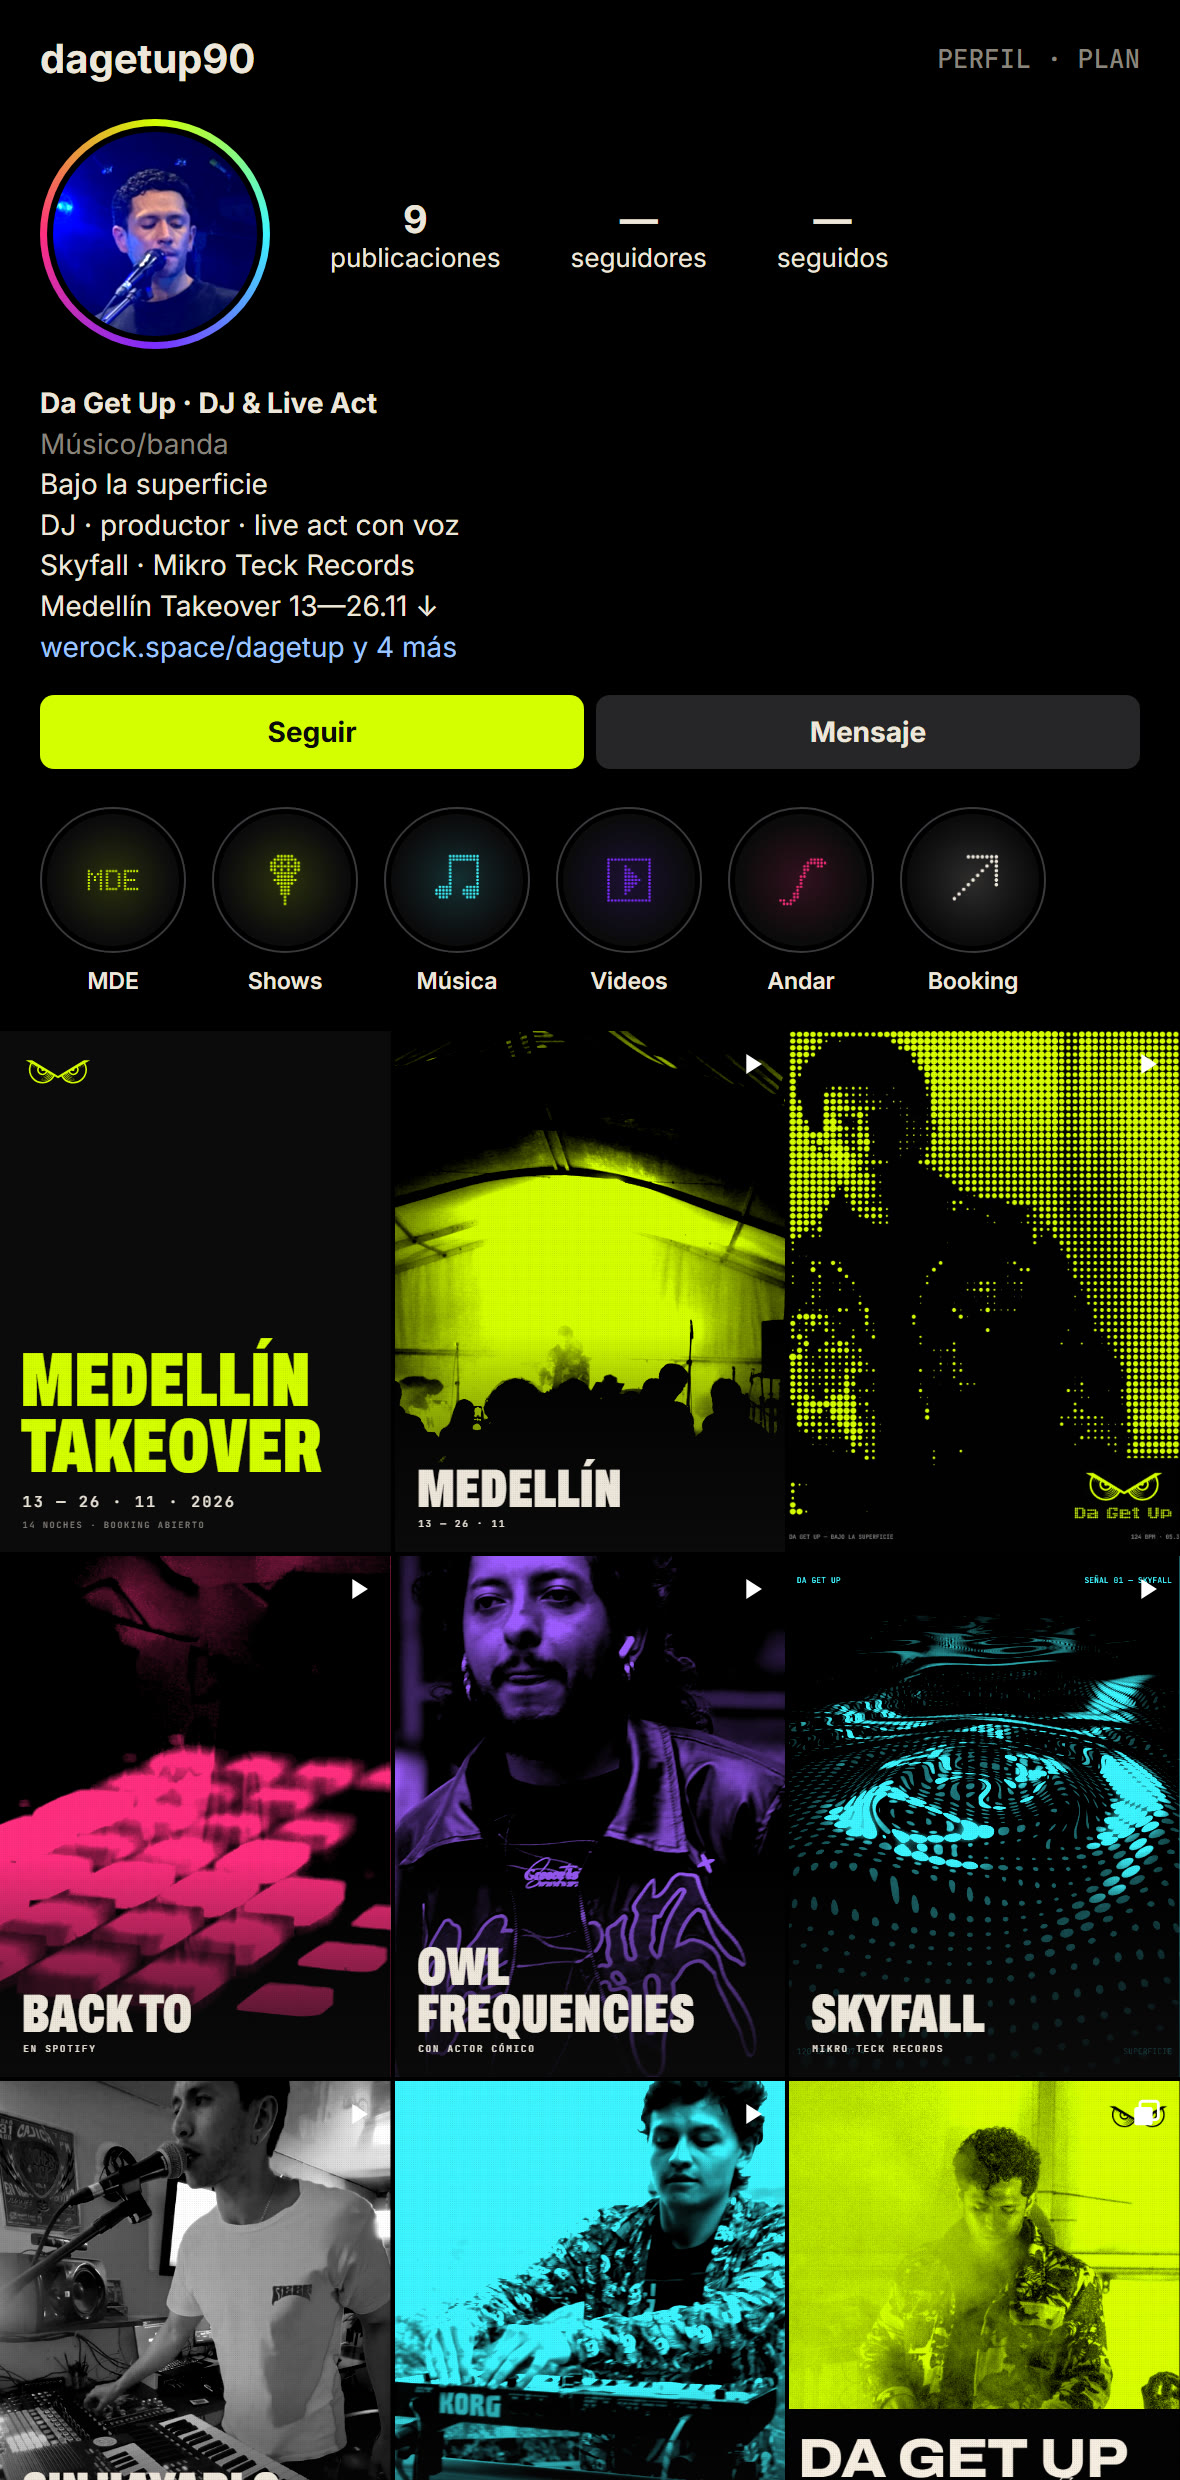
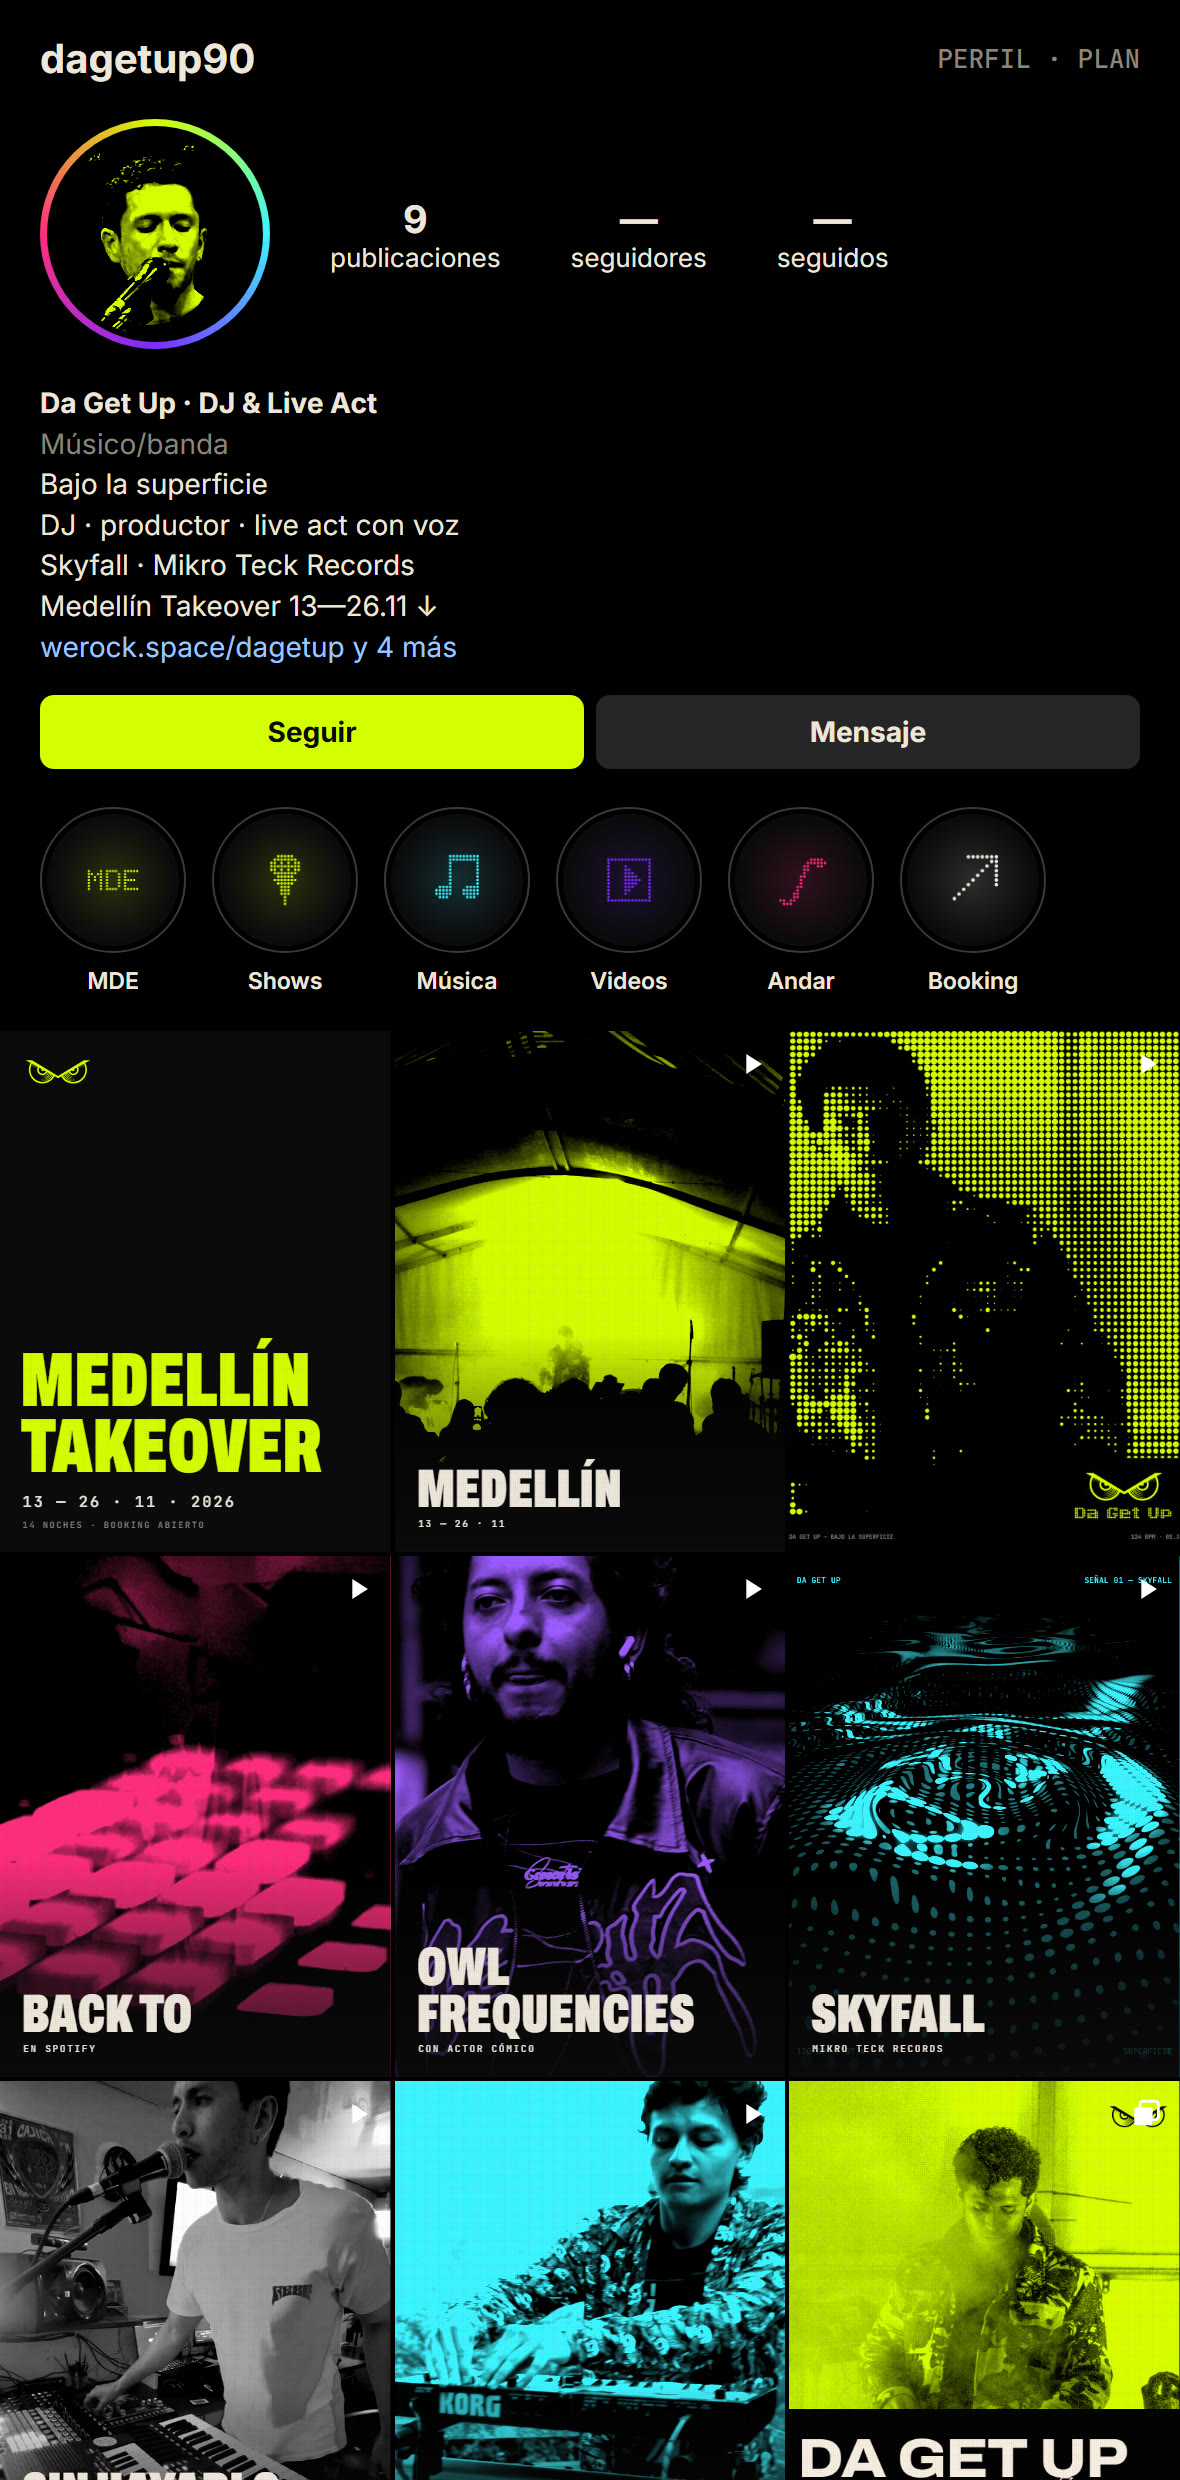
Foto de perfil: 8 variantes (cantando D1–D4, Takeover T1–T4), recomendada D2

Changed region(s): [[0.0305, 0.031, 0.2136, 0.1552]]

diff --git a/ig/index.html b/ig/index.html
@@ -79,7 +79,7 @@ summary{cursor:pointer;font-family:Archivo,sans-serif;font-stretch:62%;font-weig
       <h2>El perfil en un día</h2>
       <p class="how">Se usa @dagetup90 tal como está (69 seguidores). Primero se arregla el perfil, después se suben las 9 piezas en orden, de la 01 a la 09, con 2 o 3 minutos entre cada una. La última que subes queda arriba a la izquierda. Así se ve terminado:</p>
       <div style="display:grid;grid-template-columns:minmax(0,420px) 1fr;gap:28px;align-items:start" class="hoy-top">
-        <figure><img src="grid/perfil-mockup.jpg?v=2" alt="Así queda el perfil: foto, bio, destacadas y grid de 9" loading="lazy"><figcaption><span class="mono">Así queda</span><a class="dl" href="grid/perfil-mockup.jpg" download>Bajar</a></figcaption></figure>
+        <figure><img src="grid/perfil-mockup.jpg?v=5" alt="Así queda el perfil: foto, bio, destacadas y grid de 9" loading="lazy"><figcaption><span class="mono">Así queda</span><a class="dl" href="grid/perfil-mockup.jpg" download>Bajar</a></figcaption></figure>
         <div>
           <p class="mono" style="color:var(--acido);margin-bottom:10px">Paso 1 · Antes de publicar</p>
           <ul class="links">
@@ -87,7 +87,7 @@ summary{cursor:pointer;font-family:Archivo,sans-serif;font-stretch:62%;font-weig
             <li><b>Nombre</b><span>Da Get Up · DJ & Live Act <i class="muted">(hoy dice "Dhiguera90": el nombre es lo que se busca)</i></span></li>
             <li><b>Categoría</b><span>Músico/banda · cuenta profesional</span></li>
             <li><b>Bio</b><span>La del bloque Perfil, más abajo</span></li>
-            <li><b>Foto</b><span>Opción F, abajo</span></li>
+            <li><b>Foto</b><span>Opción D2, abajo (o la que elijas de las 8)</span></li>
             <li><b>Destacadas</b><span>Las 6 portadas y sus tarjetas, abajo</span></li>
           </ul>
           <p class="mono" style="color:var(--acido);margin:22px 0 10px">Grid: lo que se lee de arriba abajo</p>
@@ -101,17 +101,16 @@ summary{cursor:pointer;font-family:Archivo,sans-serif;font-stretch:62%;font-weig
     </div>
   </section>
 
-  <section class="post" id="foto" style="--era:var(--hueso)">
+  <section class="post" id="foto" style="--era:var(--acido)">
     <div><div class="n cond">◉</div><p class="mono muted when">Foto de perfil</p></div>
     <div>
-      <h2>Foto de perfil · 4 opciones</h2>
-      <p class="how"><span class="tag on">Recomendada: F</span>Tu foto cantando, con la luz azul real del escenario y sin filtro. Se ve natural y se distingue del grid en duotono. La cara funciona mejor en anuncios y en el círculo de historias. Si aparece la foto original en alta, se reemplaza por esa.</p>
-      <div class="grid">
-        <figure><img src="perfil/avatar/perfil-F-cantando-sin-filtro.png?v=4" alt="F · Sin filtro ★" loading="lazy" style="aspect-ratio:1/1;object-fit:cover"><figcaption><span class="mono">F · Sin filtro ★</span><a class="dl" href="perfil/avatar/perfil-F-cantando-sin-filtro.png" download>Bajar</a></figcaption></figure>
-        <figure><img src="perfil/avatar/perfil-G-cantando-bn.png?v=4" alt="G · Blanco y negro" loading="lazy" style="aspect-ratio:1/1;object-fit:cover"><figcaption><span class="mono">G · Blanco y negro</span><a class="dl" href="perfil/avatar/perfil-G-cantando-bn.png" download>Bajar</a></figcaption></figure>
-        <figure><img src="perfil/avatar/perfil-C.png?v=4" alt="C · Mirada, luz real" loading="lazy" style="aspect-ratio:1/1;object-fit:cover"><figcaption><span class="mono">C · Mirada, luz real</span><a class="dl" href="perfil/avatar/perfil-C.png" download>Bajar</a></figcaption></figure>
-        <figure><img src="perfil/avatar/perfil-A.png?v=4" alt="A · Mirada, duotono" loading="lazy" style="aspect-ratio:1/1;object-fit:cover"><figcaption><span class="mono">A · Mirada, duotono</span><a class="dl" href="perfil/avatar/perfil-A.png" download>Bajar</a></figcaption></figure>
-      </div>
+      <h2>Foto de perfil · 8 variantes</h2>
+      <p class="how"><span class="tag on">Recomendada: D2</span>Tu foto cantando en duotono ácido, con la cara más cerca. En el círculo pequeño se reconoce de inmediato, el micrófono dice "live act" y el ácido amarra con el Takeover. Las T son la foto principal del Takeover; la T1 combina perfecto con el carrusel 01.</p>
+      <p class="mono" style="color:var(--acido);margin:6px 0 10px">Cantando (opción D)</p>
+      <div class="grid"><figure><img src="perfil/avatar/perfil-D2-cantando-acido-cerca.png?v=5" alt="D2 · Ácido, cerca ★" loading="lazy" style="aspect-ratio:1/1;object-fit:cover;border-radius:50%"><figcaption><span class="mono">D2 · Ácido, cerca ★</span><a class="dl" href="perfil/avatar/perfil-D2-cantando-acido-cerca.png" download>Bajar</a></figcaption></figure><figure><img src="perfil/avatar/perfil-D1-cantando-acido.png?v=5" alt="D1 · Ácido" loading="lazy" style="aspect-ratio:1/1;object-fit:cover;border-radius:50%"><figcaption><span class="mono">D1 · Ácido</span><a class="dl" href="perfil/avatar/perfil-D1-cantando-acido.png" download>Bajar</a></figcaption></figure><figure><img src="perfil/avatar/perfil-D3-cantando-acido-uv.png?v=5" alt="D3 · Ácido sobre UV" loading="lazy" style="aspect-ratio:1/1;object-fit:cover;border-radius:50%"><figcaption><span class="mono">D3 · Ácido sobre UV</span><a class="dl" href="perfil/avatar/perfil-D3-cantando-acido-uv.png" download>Bajar</a></figcaption></figure><figure><img src="perfil/avatar/perfil-D4-cantando-hueso.png?v=5" alt="D4 · Hueso" loading="lazy" style="aspect-ratio:1/1;object-fit:cover;border-radius:50%"><figcaption><span class="mono">D4 · Hueso</span><a class="dl" href="perfil/avatar/perfil-D4-cantando-hueso.png" download>Bajar</a></figcaption></figure></div>
+      <p class="mono" style="color:var(--acido);margin:18px 0 10px">Foto principal del Takeover</p>
+      <div class="grid"><figure><img src="perfil/avatar/perfil-T1-takeover-acido.png?v=5" alt="T1 · Ácido" loading="lazy" style="aspect-ratio:1/1;object-fit:cover;border-radius:50%"><figcaption><span class="mono">T1 · Ácido</span><a class="dl" href="perfil/avatar/perfil-T1-takeover-acido.png" download>Bajar</a></figcaption></figure><figure><img src="perfil/avatar/perfil-T2-takeover-sin-filtro.png?v=5" alt="T2 · Sin filtro" loading="lazy" style="aspect-ratio:1/1;object-fit:cover;border-radius:50%"><figcaption><span class="mono">T2 · Sin filtro</span><a class="dl" href="perfil/avatar/perfil-T2-takeover-sin-filtro.png" download>Bajar</a></figcaption></figure><figure><img src="perfil/avatar/perfil-T3-takeover-bn.png?v=5" alt="T3 · Blanco y negro" loading="lazy" style="aspect-ratio:1/1;object-fit:cover;border-radius:50%"><figcaption><span class="mono">T3 · Blanco y negro</span><a class="dl" href="perfil/avatar/perfil-T3-takeover-bn.png" download>Bajar</a></figcaption></figure><figure><img src="perfil/avatar/perfil-T4-takeover-abierta.png?v=5" alt="T4 · Plano abierto" loading="lazy" style="aspect-ratio:1/1;object-fit:cover;border-radius:50%"><figcaption><span class="mono">T4 · Plano abierto</span><a class="dl" href="perfil/avatar/perfil-T4-takeover-abierta.png" download>Bajar</a></figcaption></figure></div>
+      <p class="mono muted" style="margin-top:14px">Comparación a tamaño de perfil sobre gris: <a href="perfil/avatar/comparacion.jpg" style="color:var(--acido)">ver ↗</a></p>
     </div>
   </section>
 

diff --git a/ig/src/grid.html b/ig/src/grid.html
@@ -40,12 +40,20 @@ const AVATAR = {
   G: { t: "Cantando · blanco y negro", src: A + "live-voz.jpg", m: "bw lift", c: "#000", v: "", op: "50% 0", fx: 636, fy: 372, s: 3.3, ty: 110 },
   H: { t: "Cantando · duotono UV", src: A + "live-voz.jpg", m: "duo", c: "#9d5cff", v: "--b:2.4;--k:1.7", op: "50% 0", fx: 636, fy: 372, s: 3.3, ty: 110 },
   I: { t: "Cantando · duotono hielo", src: A + "live-voz.jpg", m: "duo", c: "var(--hielo)", v: "--b:2.4;--k:1.7", op: "50% 0", fx: 636, fy: 372, s: 3.3, ty: 110 },
+  D1: { t: "Cantando · duotono ácido", src: A + "live-voz.jpg", m: "duo", c: "var(--acido)", v: "--b:2.3;--k:1.7", op: "50% 0", fx: 636, fy: 372, s: 3.3, ty: 110 },
+  D2: { t: "Cantando · ácido, cara cerca", src: A + "live-voz.jpg", m: "duo", c: "var(--acido)", v: "--b:2.6;--k:1.6", op: "50% 0", fx: 636, fy: 372, s: 4.2, ty: 120 },
+  D3: { t: "Cantando · ácido sobre noche UV", src: A + "live-voz.jpg", m: "duo", c: "var(--acido)", v: "--b:2.3;--k:1.7", op: "50% 0", fx: 636, fy: 372, s: 3.3, ty: 110, bg: "#2a1052" },
+  D4: { t: "Cantando · hueso", src: A + "live-voz.jpg", m: "duo", c: "var(--hueso)", v: "--b:2.4;--k:1.7", op: "50% 0", fx: 636, fy: 372, s: 3.3, ty: 110 },
+  T1: { t: "Takeover · duotono ácido", src: A + "bio-humo.webp", m: "duo", c: "var(--acido)", v: "--b:1.6;--k:1.3", op: "50% 0", fx: 567, fy: 360, s: 2.1, ty: 110 },
+  T2: { t: "Takeover · sin filtro", src: A + "bio-humo.webp", m: "real", c: "#000", v: "", op: "50% 0", fx: 567, fy: 360, s: 2.1, ty: 110 },
+  T3: { t: "Takeover · blanco y negro", src: A + "bio-humo.webp", m: "bw lift", c: "#000", v: "", op: "50% 0", fx: 567, fy: 360, s: 2.1, ty: 110 },
+  T4: { t: "Takeover · ácido, plano abierto", src: A + "bio-humo.webp", m: "duo", c: "var(--acido)", v: "--b:1.6;--k:1.3", op: "50% 0", fx: 567, fy: 420, s: 1.45, ty: 60 },
   E: { t: "Búho", logo: true },
 };
 function avatar(o, px) {
   const a = AVATAR[o];
   if (a.logo) return `<div style="position:relative;width:${px}px;height:${px}px;background:radial-gradient(60% 60% at 50% 50%,#1a0b33,#0b0b0c 75%);display:grid;place-items:center"><img src="${BUHO("hueso")}" style="width:62%"></div>`;
-  return `<div style="position:relative;width:${px}px;height:${px}px;overflow:hidden"><div class="duo ${a.m}" style="--c:${a.c};${a.v}"><img src="${a.src}" style="object-position:${a.op};transform-origin:${a.fx}px ${a.fy}px;transform:translate(${540 - a.fx}px,${a.ty}px) scale(${a.s})"></div><div class="grain"></div></div>`;
+  return `<div style="position:relative;width:${px}px;height:${px}px;overflow:hidden;background:${a.bg || "#000"}"><div class="duo ${a.m}" style="--c:${a.c};${a.v}${a.bg ? `;mix-blend-mode:normal` : ""}"><img src="${a.src}" style="object-position:${a.op};transform-origin:${a.fx}px ${a.fy}px;transform:translate(${540 - a.fx}px,${a.ty}px) scale(${a.s})"></div>${a.bg ? `<div style="position:absolute;inset:0;background:${a.bg};mix-blend-mode:lighten"></div>` : ""}<div class="grain"></div></div>`;
 }
 
 // ---------- Destacadas: una banda de color por destacada ----------
